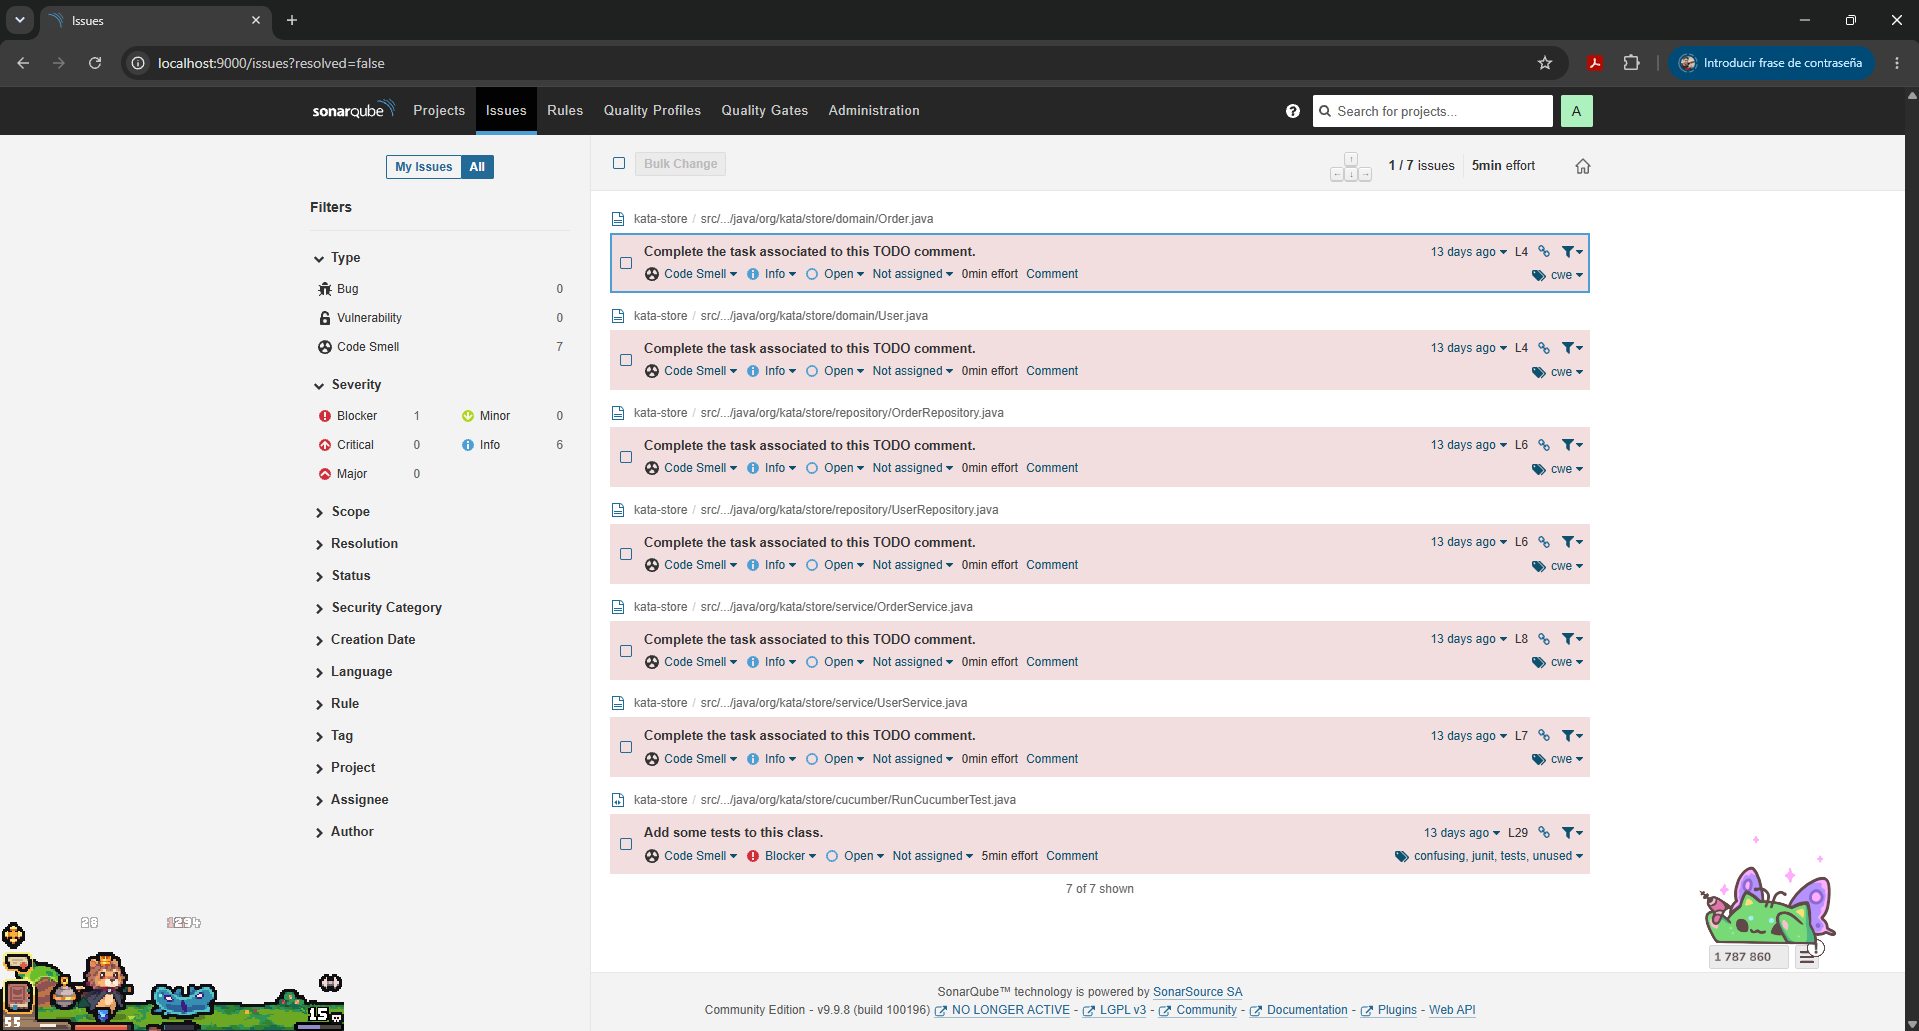
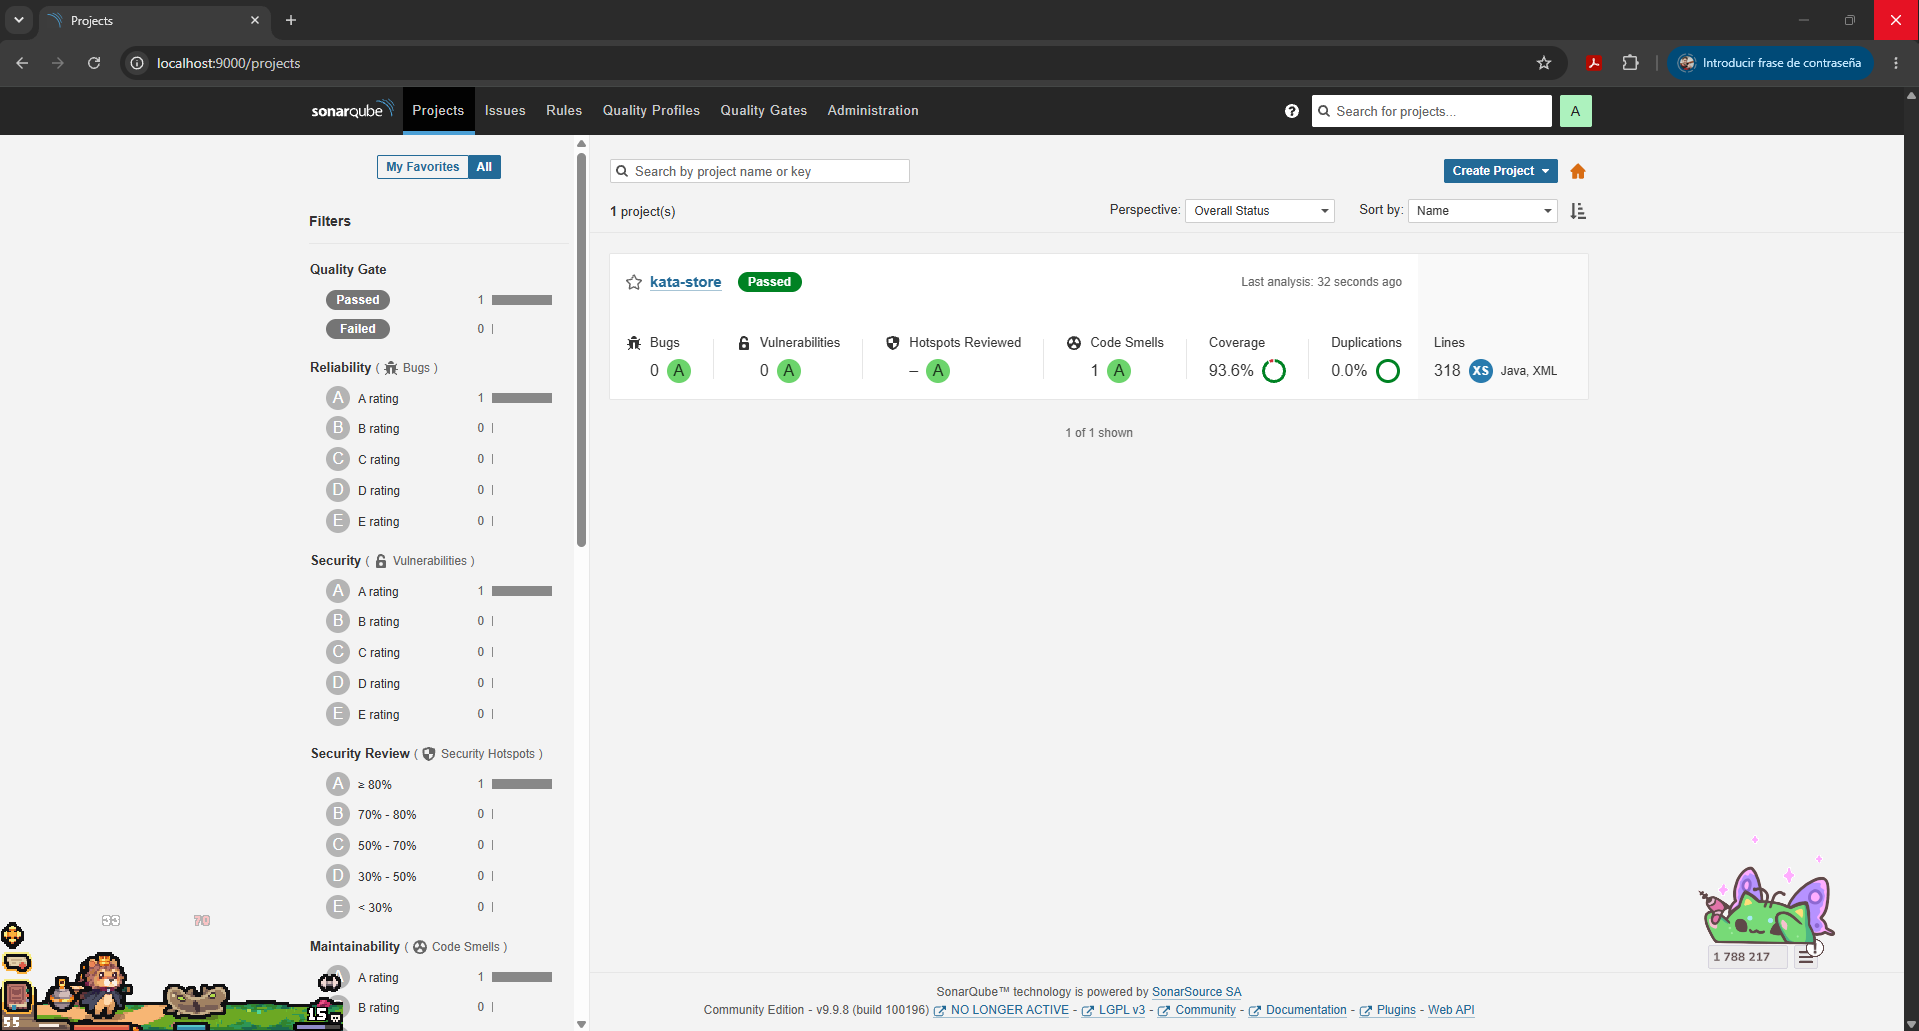
Subida de foto de Sonar actualizada

diff --git a/README.md b/README.md
@@ -119,6 +119,6 @@ Tenéis las diapositivas subidas en la raíz de este proyecto ;)
 
 Tienes ejemplos resueltos de Mockito, Cucumber y Testcontainers en la rama `feat/tennis` de este repositorio.
 
-## Mis capturas de SonarQube
+## Mi captura de SonarQube
 
 ![Cobertura en SonarQube](SonarQube.png)
